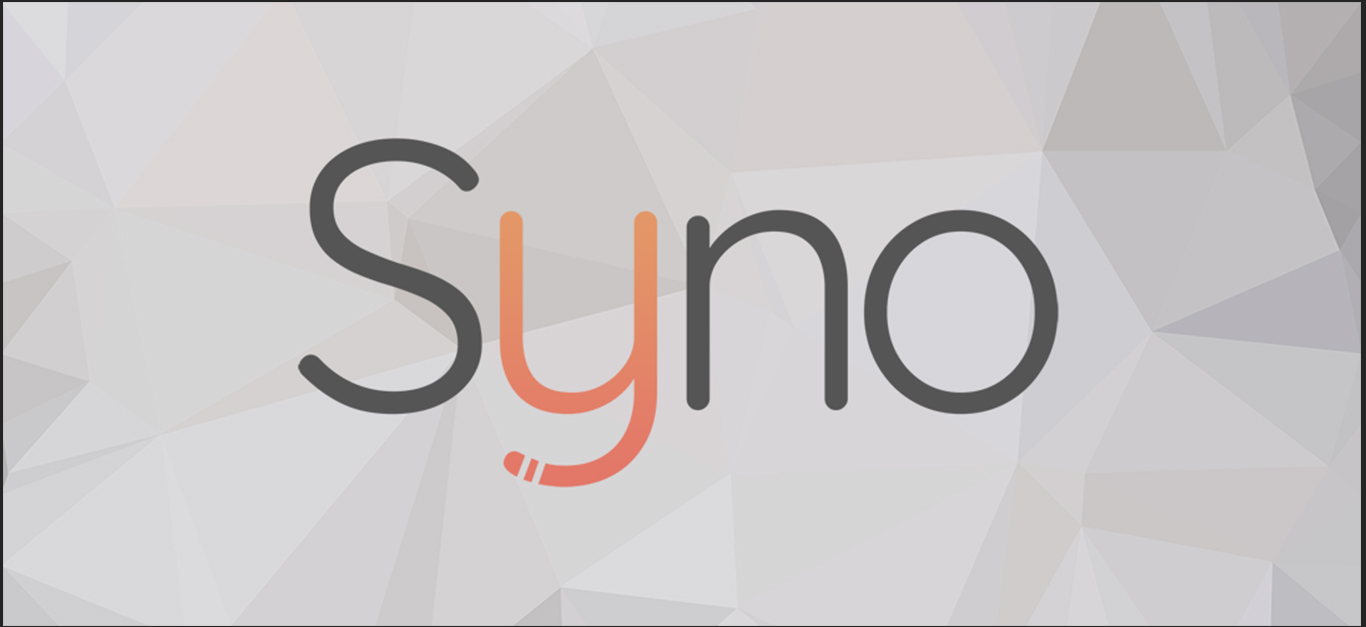
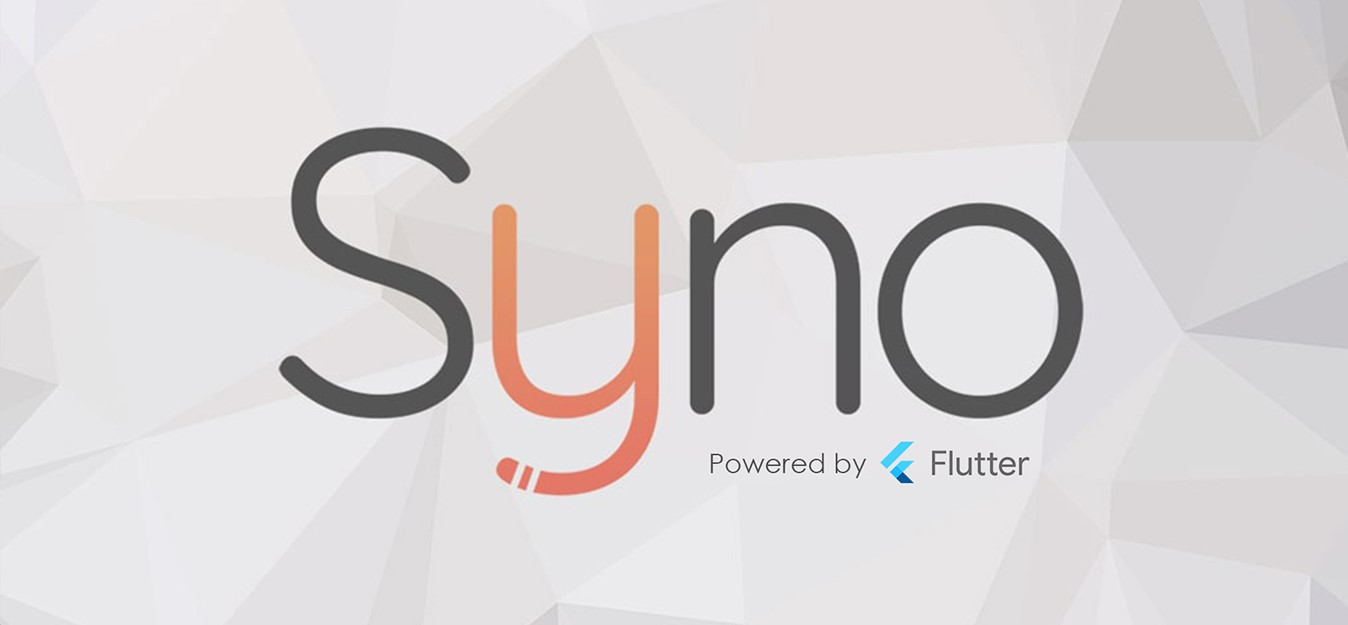
Added Syno

diff --git a/index.html b/index.html
@@ -238,42 +238,56 @@
                     <p>A portfolio of UX research and UI design case studies.</p>
                 </div>
                 <div class="row" data-aos="fade-up" data-aos-duration="800">
-                    <div class="col s12 l4">
+                    <div class="col s12 l3">
+                        <div class="card z-depth-2">
+                            <a href="https://medium.com/@julius.karl.macrohon/syno-a-flutter-journey-23fa820fdf77" class="black-text" target="_blank">
+                                <div class="card-img">
+                                    <img src="./img/thumbs//syno.jpg" class="responsive-img">
+                                </div>
+                                <div class="card-content">
+                                    <span class="card-title">Syno<br /><small>App Development</small></span>
+                                    <p>In recent years Flutter has slowly been growing in popularity seeing itself in league with the likes of React Native and …
+                                    </p>
+                                </div>
+                            </a>
+                        </div>
+                    </div>
+                    <div class="col s12 l3">
                         <div class="card z-depth-2">
                             <a href="https://medium.com/@julius.karl.macrohon/athena-a-ux-case-study-ba9ea39fc6b0" class="black-text" target="_blank">
                                 <div class="card-img">
                                     <img src="./img/thumbs/athena.JPG" class="responsive-img">
                                 </div>
                                 <div class="card-content">
-                                    <span class="card-title">Athena | <small>UX Case Study</small></span>
-                                    <p>When I began my internship with The University of Auckland I was excited to finally begin my career as a software developer …
+                                    <span class="card-title">Athena<br /><small>UX Research</small></span>
+                                    <p>When I began my internship with The University of Auckland I was excited to finally begin my career as a …
                                     </p>
                                 </div>
                             </a>
                         </div>
                     </div>
-                    <div class="col s12 l4">
+                    <div class="col s12 l3">
                         <div class="card z-depth-2">
                             <a href="https://medium.com/@julius.karl.macrohon/journey-navigation-demo-f551b0b42829" class="black-text" target="_blank">
                                 <div class="card-img">
                                     <img src="./img/thumbs/journey.JPG" class="responsive-img">
                                 </div>
                                 <div class="card-content">
-                                    <span class="card-title">Journey | <small>Demo</small></span>
+                                    <span class="card-title">Journey<br /><small>Navigation Demo</small></span>
                                     <p>Since this application requires signing up (with confidential details) I thought it would be wise to provide a…
                                     </p>
                                 </div>
                             </a>
                         </div>
                     </div>
-                    <div class="col s12 l4">
+                    <div class="col s12 l3">
                         <div class="card z-depth-2">
                             <a href="https://medium.com/@julius.karl.macrohon/hirahero-hiragana-flash-cards-ef340366ef0a" class="black-text" target="_blank">
                                 <div class="card-img">
                                     <img src="./img/thumbs/hira-hero.JPG" class="responsive-img">
                                 </div>
                                 <div class="card-content">
-                                    <span class="card-title">Hirahero | <small>Product Design</small></span>
+                                    <span class="card-title">Hirahero<br /><small>Product Design</small></span>
                                     <p>During the 2nd year of my computer science degree and being new to web development I was disappointed by…
                                     </p>
                                 </div>
